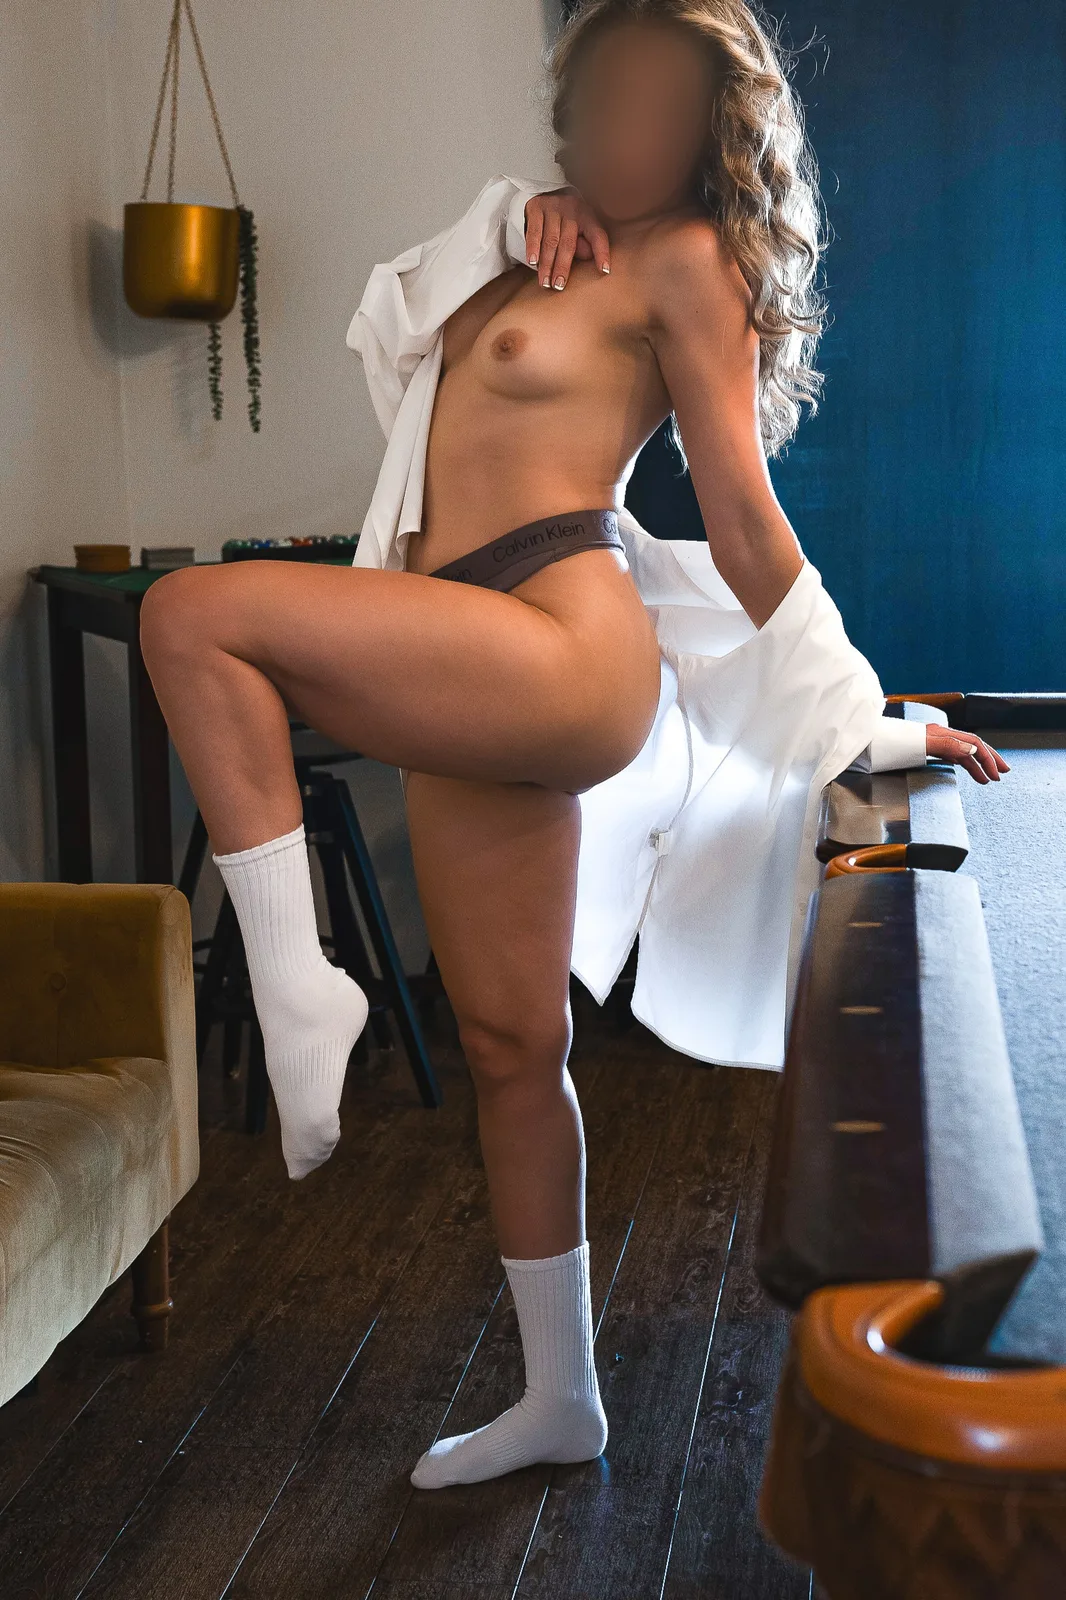
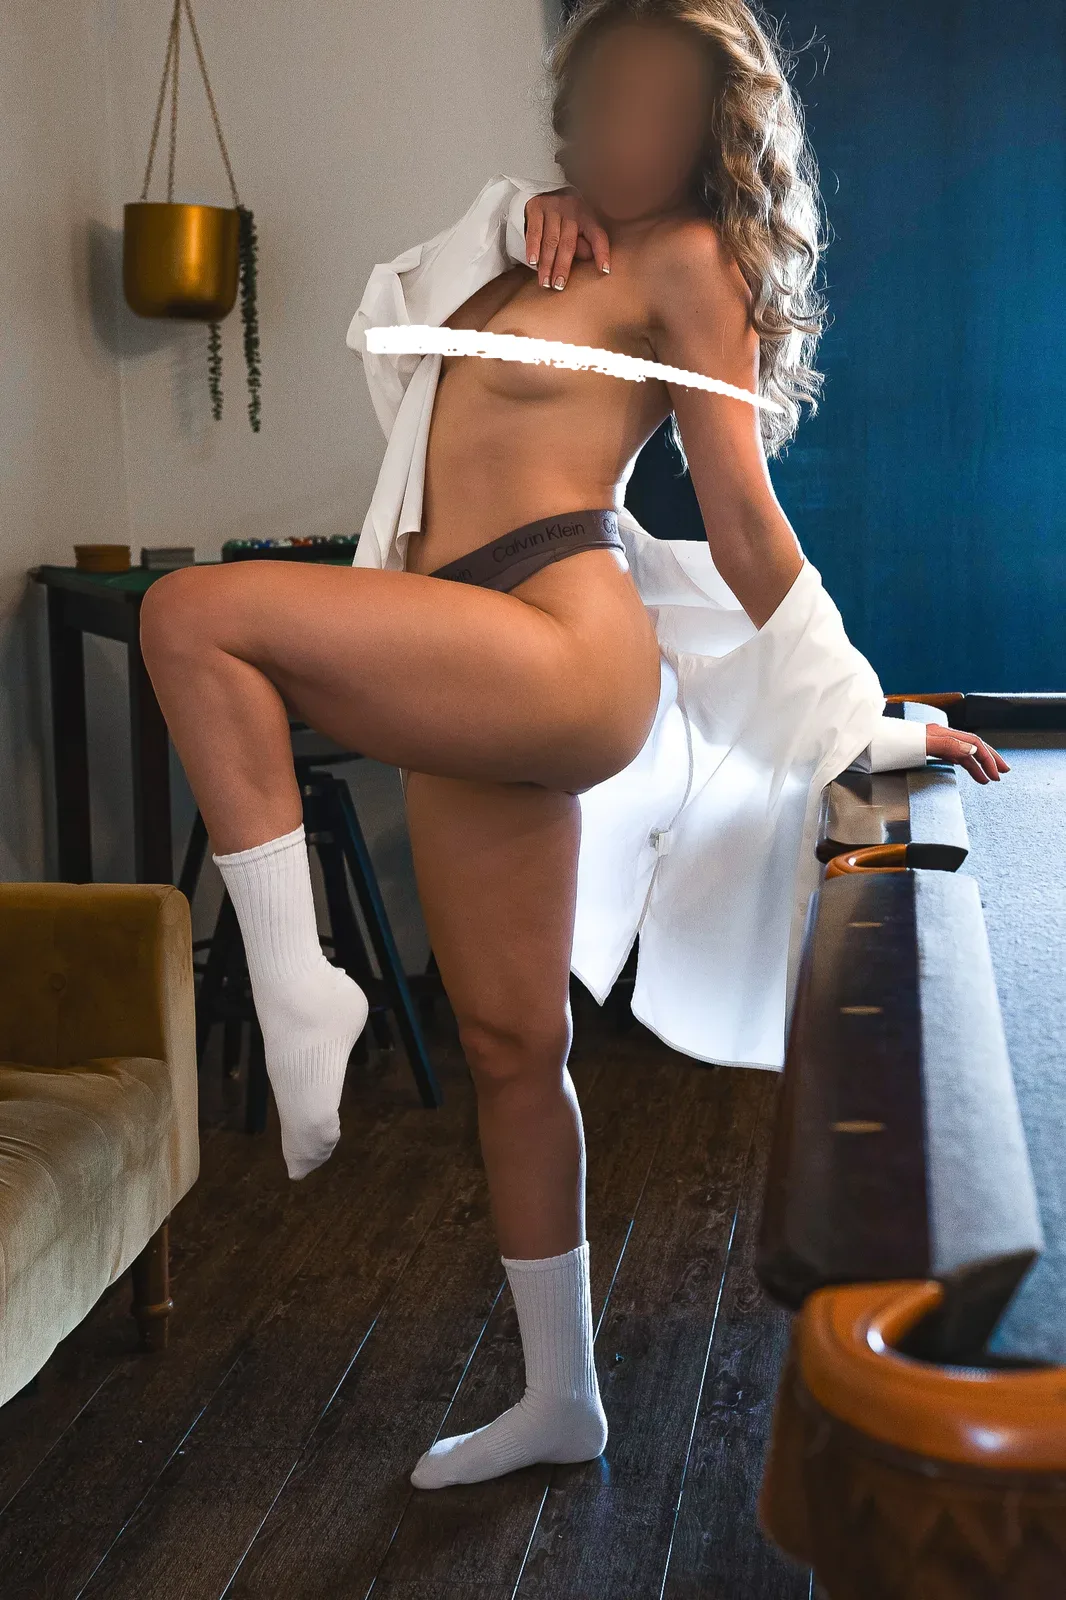
Swap About/hero-mobile photos, refresh two images, adjust feature visibility
- About and the Hero mobile crop now use each other's photo
- Removes feature-one-desktop from the gallery
- Replaces gallery-08 and feature-two-mobile with the edited versions, metadata stripped and converted to webp
- Candid feature image (above Booking/Consideration) is desktop-only now and taller
- Editorial feature image (after Booking) is taller on mobile
- Footer/Lifestyle feature image is visible on mobile again

Changed region(s): [[0.3405, 0.1875, 0.712, 0.25]]

diff --git a/src/components/Gallery.tsx b/src/components/Gallery.tsx
@@ -23,14 +23,13 @@ const images = [
   { src: `${IMG}/gallery-15.webp`, title: "Alyssa XV" },
   { src: `${IMG}/hero-desktop.webp`, title: "Alyssa XVI" },
   { src: `${IMG}/hero-mobile.webp`, title: "Alyssa XVII", portrait: true },
-  { src: `${IMG}/feature-one-desktop.webp`, title: "Alyssa XVIII" },
-  { src: `${IMG}/feature-one-mobile.webp`, title: "Alyssa XIX", portrait: true },
-  { src: `${IMG}/feature-two-desktop.webp`, title: "Alyssa XX" },
-  { src: `${IMG}/feature-two-mobile.webp`, title: "Alyssa XXI", portrait: true },
-  { src: `${IMG}/feature-three-desktop.webp`, title: "Alyssa XXII" },
-  { src: `${IMG}/feature-three-mobile.webp`, title: "Alyssa XXIII", portrait: true },
-  { src: `${IMG}/feature-footer-desktop.webp`, title: "Alyssa XXIV" },
-  { src: `${IMG}/feature-footer-mobile.webp`, title: "Alyssa XXV", portrait: true },
+  { src: `${IMG}/feature-one-mobile.webp`, title: "Alyssa XVIII", portrait: true },
+  { src: `${IMG}/feature-two-desktop.webp`, title: "Alyssa XIX" },
+  { src: `${IMG}/feature-two-mobile.webp`, title: "Alyssa XX", portrait: true },
+  { src: `${IMG}/feature-three-desktop.webp`, title: "Alyssa XXI" },
+  { src: `${IMG}/feature-three-mobile.webp`, title: "Alyssa XXII", portrait: true },
+  { src: `${IMG}/feature-footer-desktop.webp`, title: "Alyssa XXIII" },
+  { src: `${IMG}/feature-footer-mobile.webp`, title: "Alyssa XXIV", portrait: true },
 ];
 
 function GalleryTile({

diff --git a/src/routes/index.tsx b/src/routes/index.tsx
@@ -35,28 +35,28 @@ function Index() {
         <div className="bg-sand-deep">
           <Profile />
         </div>
-        <FeatureImage
-          variant="featureThree"
-          label="Candid"
-          caption="Effortless, unposed elegance"
-          heightClass="h-[85vh] md:h-[90vh]"
-        />
+        <div className="hidden md:block">
+          <FeatureImage
+            variant="featureThree"
+            label="Candid"
+            caption="Effortless, unposed elegance"
+            heightClass="md:h-[95vh]"
+          />
+        </div>
         <Booking />
         <FeatureImage
           variant="featureOne"
           label="Editorial"
           caption="Golden hour in the Sonoran desert"
-          heightClass="h-[70vh] md:h-[90vh]"
+          heightClass="h-[85vh] md:h-[90vh]"
         />
         <Contact />
-        <div className="hidden md:block">
-          <FeatureImage
-            variant="footer"
-            label="Lifestyle"
-            caption="Where warmth meets intention"
-            heightClass="md:h-[90vh]"
-          />
-        </div>
+        <FeatureImage
+          variant="footer"
+          label="Lifestyle"
+          caption="Where warmth meets intention"
+          heightClass="h-[70vh] md:h-[90vh]"
+        />
       </main>
       <Footer />
       <Toaster position="top-center" />

diff --git a/src/components/Hero.tsx b/src/components/Hero.tsx
@@ -9,7 +9,7 @@ export function Hero() {
       <picture>
         <source media="(min-width: 768px)" srcSet="/assets/images/hero-desktop.webp" />
         <img
-          src="/assets/images/hero-mobile.webp"
+          src="/assets/images/feature-three-mobile.webp"
           alt=""
           aria-hidden="true"
           fetchPriority="high"

diff --git a/src/components/About.tsx b/src/components/About.tsx
@@ -1,6 +1,6 @@
 import { Reveal } from "@/components/Reveal";
 
-const about = "/assets/images/feature-three-mobile.webp";
+const about = "/assets/images/hero-mobile.webp";
 
 export function About() {
   return (
